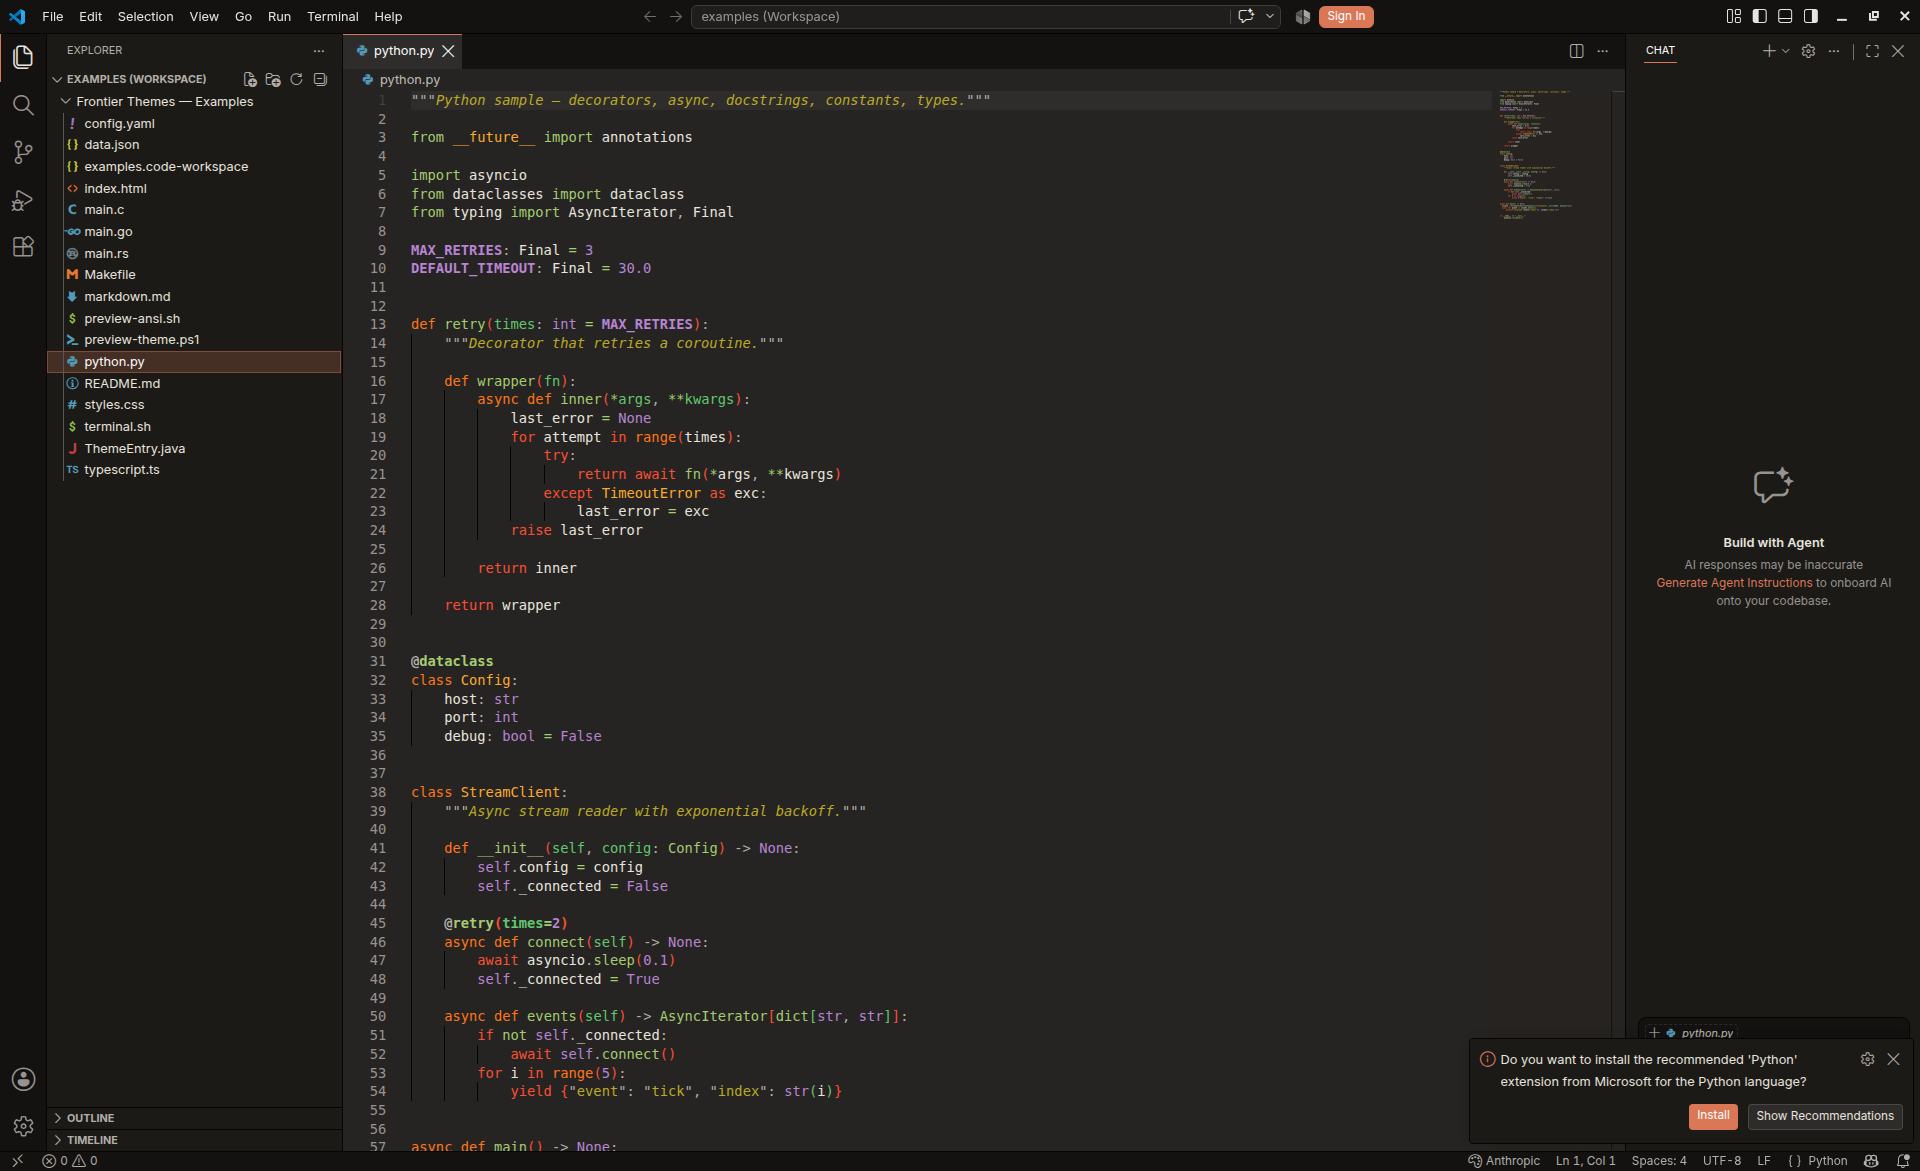
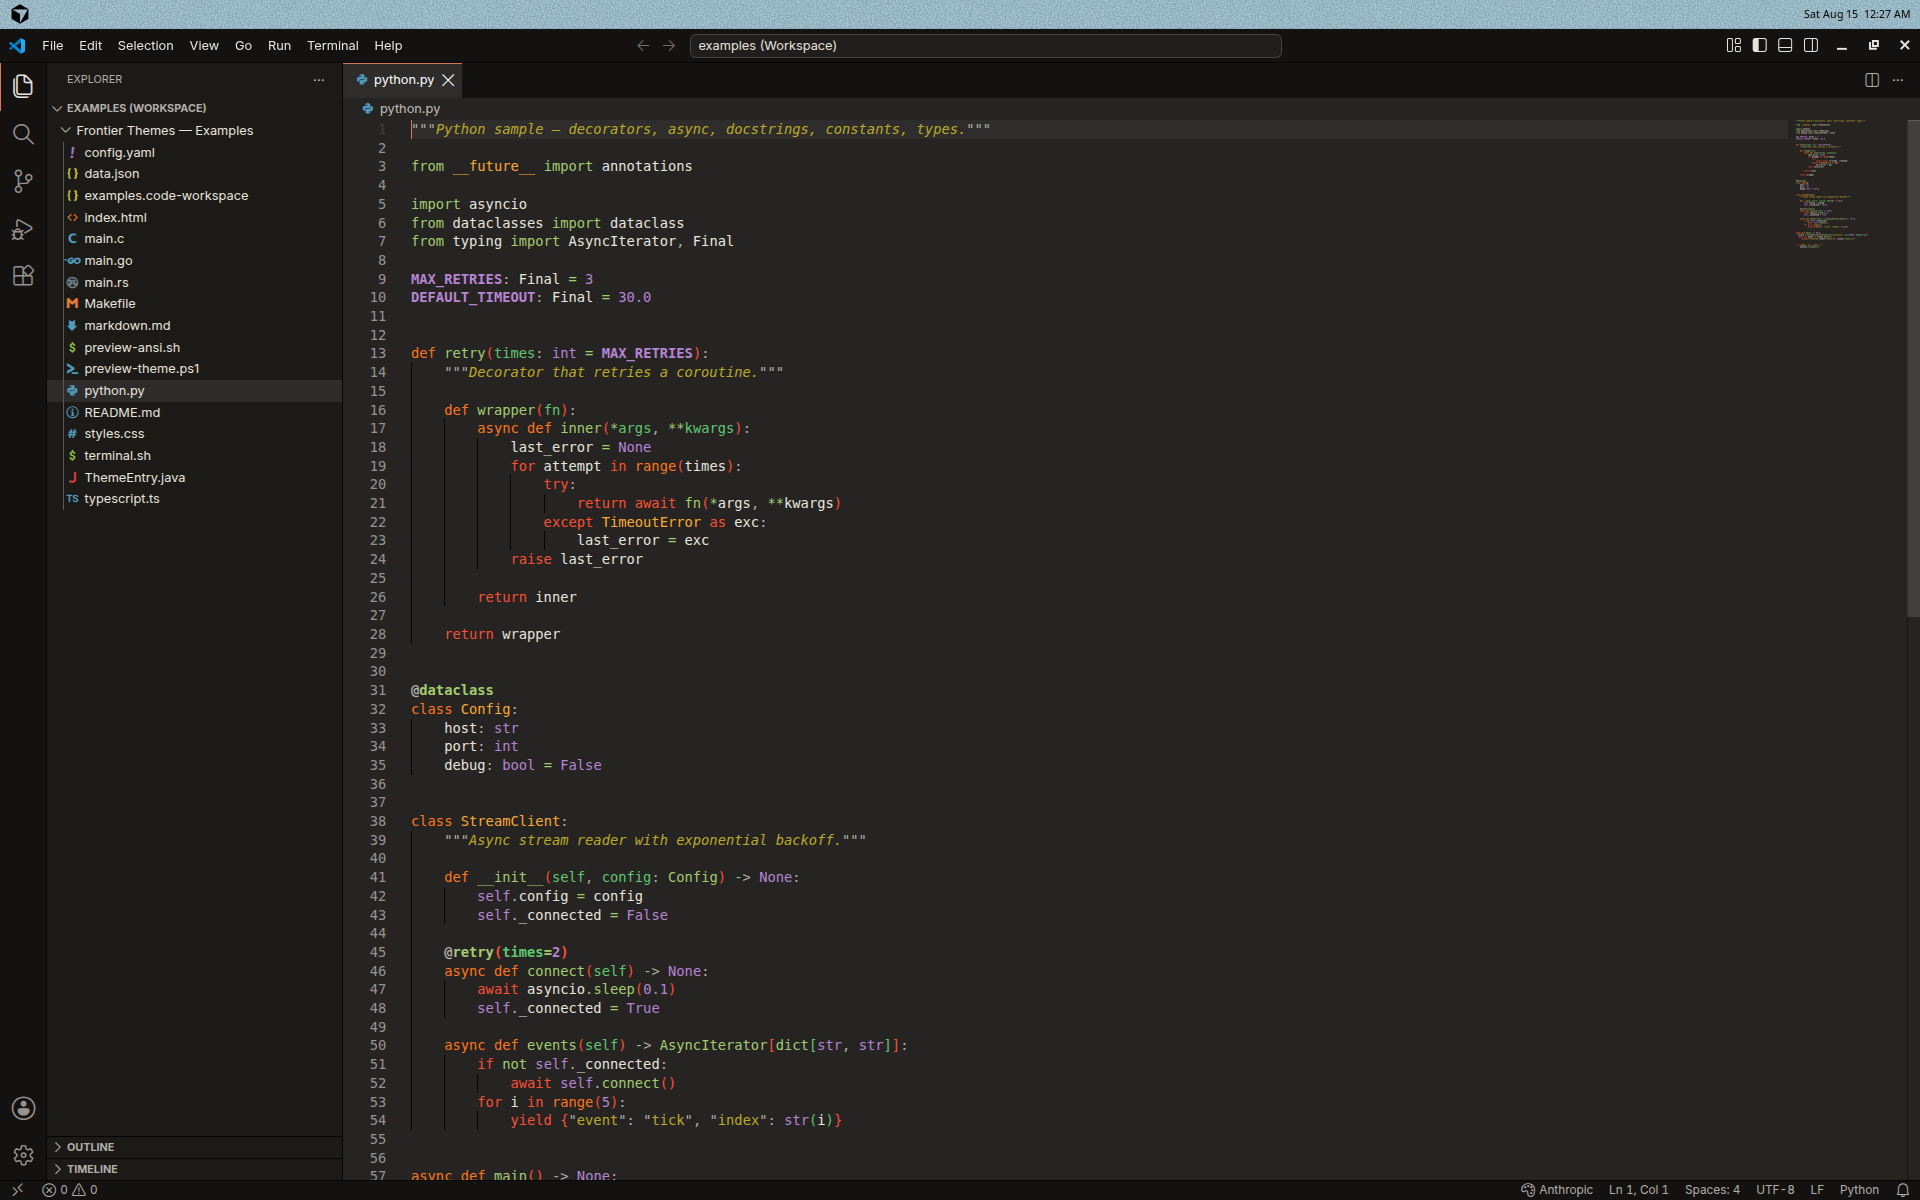
Add OpenAI and light theme previews without editor popups
Recapture all demo screenshots with recommendation toasts disabled,
and include OpenAI Dark plus four light themes in the README gallery.

diff --git a/README.md b/README.md
@@ -21,7 +21,7 @@ Use the **status bar picker** to switch themes quickly, **preview with ↑↓** 
 ## Theme previews
 
 <p align="center">
-  <img src="media/demo/demo_01_anthropic_dark_python.png" alt="Anthropic Dark — Python syntax" width="720">
+  <img src="media/demo/demo_01_anthropic_dark_python.png" alt="Anthropic Dark — Python" width="720">
   <br><em>Anthropic Dark — Python</em>
 </p>
 
@@ -36,8 +36,33 @@ Use the **status bar picker** to switch themes quickly, **preview with ↑↓** 
 </p>
 
 <p align="center">
-  <img src="media/demo/demo_04_vercel_dark_split.png" alt="Vercel Dark — split editor" width="720">
-  <br><em>Vercel Dark — split editor</em>
+  <img src="media/demo/demo_04_vercel_dark_typescript.png" alt="Vercel Dark — TypeScript" width="720">
+  <br><em>Vercel Dark — TypeScript</em>
+</p>
+
+<p align="center">
+  <img src="media/demo/demo_05_openai_dark_typescript.png" alt="OpenAI Dark — TypeScript" width="720">
+  <br><em>OpenAI Dark — TypeScript</em>
+</p>
+
+<p align="center">
+  <img src="media/demo/demo_06_openai_light_typescript.png" alt="OpenAI Light — TypeScript" width="720">
+  <br><em>OpenAI Light — TypeScript</em>
+</p>
+
+<p align="center">
+  <img src="media/demo/demo_07_anthropic_light_python.png" alt="Anthropic Light — Python" width="720">
+  <br><em>Anthropic Light — Python</em>
+</p>
+
+<p align="center">
+  <img src="media/demo/demo_08_google_light_typescript.png" alt="Google Light — TypeScript" width="720">
+  <br><em>Google Light — TypeScript</em>
+</p>
+
+<p align="center">
+  <img src="media/demo/demo_09_linear_light_css.png" alt="Linear Light — CSS" width="720">
+  <br><em>Linear Light — CSS</em>
 </p>
 
 ## Installation
